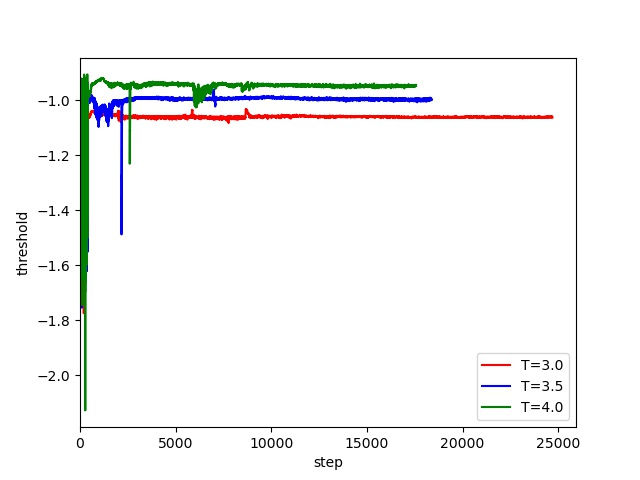
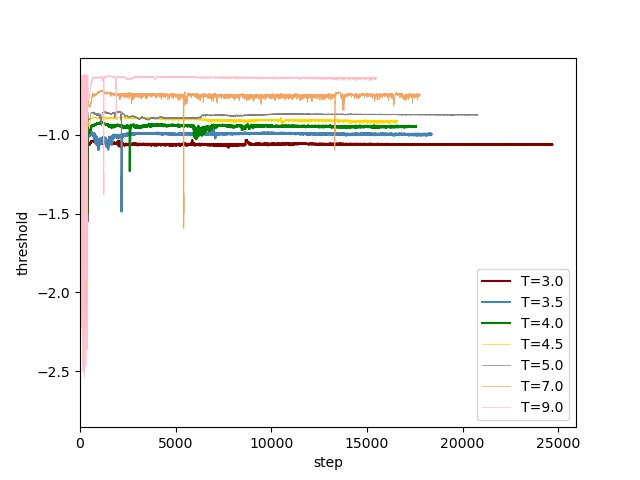
1.0: nbit-6, with truncation, one figure, all T, linewidth=0.5.

diff --git a/nqubit/plot/plot.py b/nqubit/plot/plot.py
@@ -1,6 +1,14 @@
+# nbit-6, with truncation, one figure, all T.
 import numpy as np
 import matplotlib.pyplot as plt
 from tensorboard.backend.event_processing.event_accumulator import EventAccumulator
+
+def plot_func(dir, color, label):
+    event = EventAccumulator(dir)
+    event.Reload()
+    threshold = event.scalars.Items('threshold')
+    plt.plot([i.step for i in threshold], [i.value for i in threshold], color=color, label=label, linewidth=0.5)
+    return
 
 dir = "/home/pami/ZeroRL/nqubit/results/sac_energy_new/nbit-6/T-3.000/events.out.tfevents.1607676640.pami12"
 event = EventAccumulator(dir)
@@ -31,7 +39,7 @@ print([(i.step, i.value) for i in threshold[0:11]])
 # ax2 = fig.add_subplot(212)
 # ax2.plot([i.step for i in threshold], [i.value for i in threshold], color='b', label='T=3.5')
 
-plt.plot([i.step for i in threshold], [i.value for i in threshold], color='r', label='T=3.0')
+plt.plot([i.step for i in threshold], [i.value for i in threshold], color='maroon', label='T=3.0')
 plt.xlim(0)
 # acc=ea.scalars.Items('acc')
 # ax1.plot([i.step for i in acc],[i.value for i in acc],label='acc')
@@ -42,7 +50,7 @@ dir2 = "/home/pami/ZeroRL/nqubit/results/sac_energy_new/nbit-6/T-3.500/events.ou
 event2 = EventAccumulator(dir2)
 event2.Reload()
 threshold2 = event2.scalars.Items('threshold')
-plt.plot([i.step for i in threshold2], [i.value for i in threshold2], color='b', label='T=3.5')
+plt.plot([i.step for i in threshold2], [i.value for i in threshold2], color='steelblue', label='T=3.5')
 
 dir3 = "/home/pami/ZeroRL/nqubit/results/sac_energy_new/nbit-6/T-4.000/events.out.tfevents.1607686837.pami12"
 event3 = EventAccumulator(dir3)
@@ -50,11 +58,33 @@ event3.Reload()
 threshold3 = event3.scalars.Items('threshold')
 plt.plot([i.step for i in threshold3], [i.value for i in threshold3], color='g', label='T=4.0')
 
+dir4 = "/home/pami/ZeroRL/nqubit/results/sac_energy_new/nbit-6/T-4.500/events.out.tfevents.1607686906.pami12"
+plot_func(dir=dir4, color='gold', label='T=4.5')
+
+dir5 = "/home/pami/ZeroRL/nqubit/results/sac_energy_new/nbit-6/T-5.000/events.out.tfevents.1607676571.pami12"
+plot_func(dir=dir5, color='grey', label='T=5.0')
+
+dir6 = "/home/pami/ZeroRL/nqubit/results/sac_energy_new/nbit-6/T-7.000/events.out.tfevents.1607676668.pami12"
+plot_func(dir=dir6, color='sandybrown', label='T=7.0')
+
+dir7 = "/home/pami/ZeroRL/nqubit/results/sac_energy_new/nbit-6/T-9.000/events.out.tfevents.1607676748.pami12"
+plot_func(dir=dir7, color='pink', label='T=9.0')
+
 plt.legend(loc='lower right')
 plt.savefig('original.jpg')
 
 plt.xlim(0, 15000)
-plt.savefig('truncation.jpg')
+plt.savefig('truncation_x.jpg')
+
+plt.ylim(-2)
+plt.savefig('truncation_x_y.jpg')
+
+plt.xlim(0, 3000)
+plt.savefig('truncation_3000_-2.jpg')
+
+plt.xlim(0, 1000)
+plt.savefig('truncation_1000_-2.jpg')
+
 
 
 
